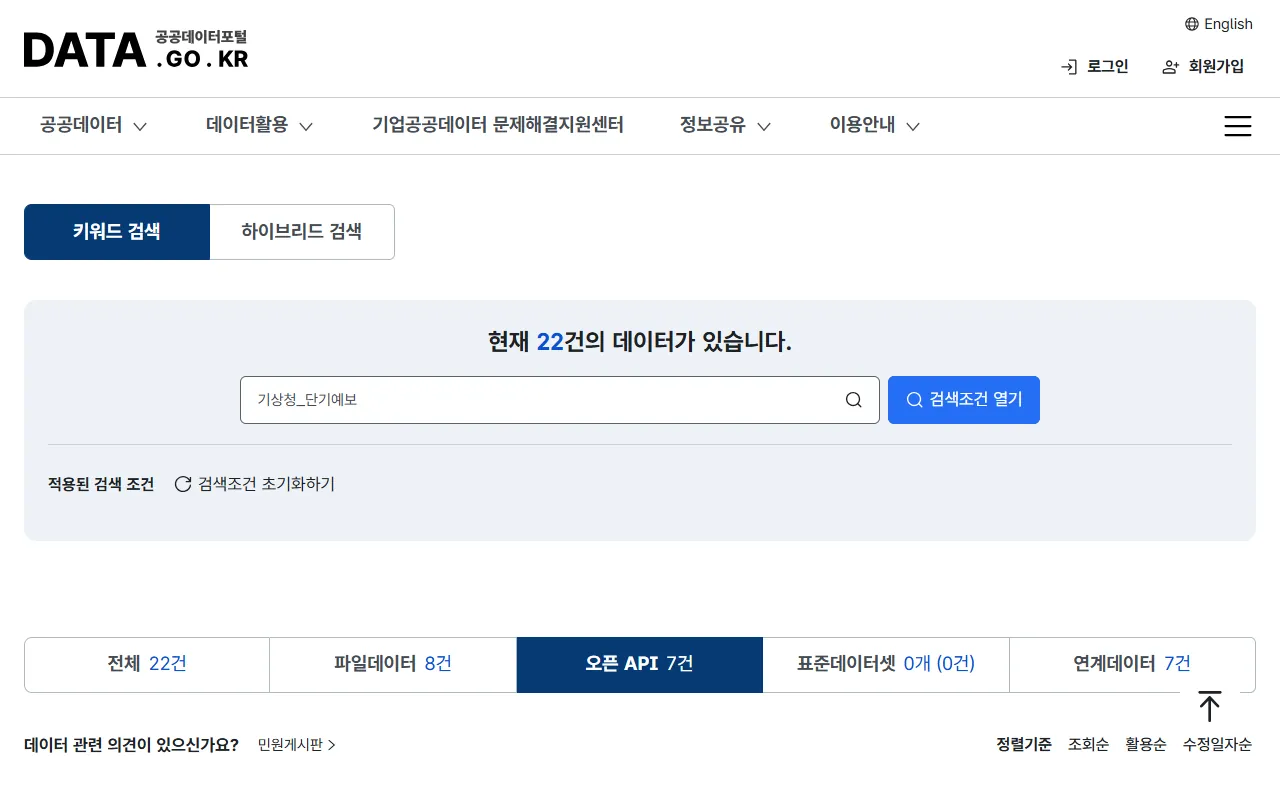
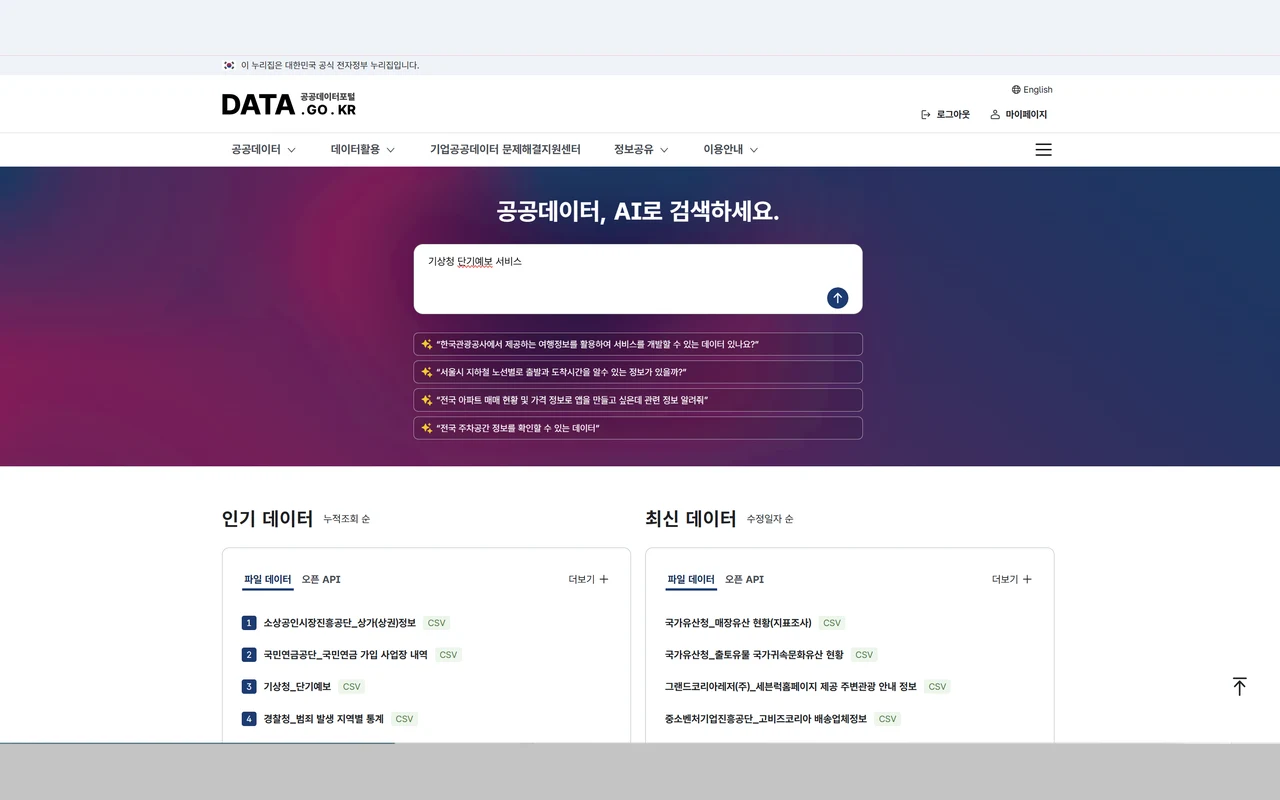
Add screen-by-screen walkthroughs to every Workshop 1 task
Each assignment's hint box now opens a walkthrough over real screens with
the spot to press highlighted: downloading and opening the starter, opening
the folder in the Codex app and running it, making the first change, the
Google login client ID, and the 공공데이터포털 weather key (now through the
logged-in AI search and the 마이페이지 key screen). Personal parts of the
screenshots (chat list, names, profile pictures, client IDs, the API key)
are covered, and Explorer/browser frames are drawn illustrations. A step
without an image can say why with `blank`.

diff --git a/portal/src/main.js b/portal/src/main.js
@@ -167,7 +167,7 @@ function openWalk(box) {
   layer.innerHTML = `<div class="walk-card" role="dialog" aria-modal="true" aria-labelledby="walk-title" tabindex="-1">
 <div class="walk-head"><span class="walk-title" id="walk-title"></span><span class="walk-count"></span><button type="button" class="walk-close" aria-label="닫기">✕</button></div>
 <div class="walk-progress" aria-hidden="true"><span></span></div>
-<div class="walk-shot"><div class="walk-zoom"><img alt=""><span class="walk-box" aria-hidden="true"></span></div><p class="walk-noimg"><span aria-hidden="true">🔒</span> 로그인한 뒤의 화면이에요</p></div>
+<div class="walk-shot"><div class="walk-zoom"><img alt=""><span class="walk-box" aria-hidden="true"></span></div><p class="walk-noimg"></p></div>
 <p class="walk-text"></p>
 <p class="walk-note"></p>
 <div class="walk-actions"><button type="button" class="walk-prev">이전</button><button type="button" class="walk-next">다음</button></div>
@@ -204,6 +204,8 @@ function openWalk(box) {
     layer.querySelector('.walk-progress span').style.width = `${((index + 1) / steps.length) * 100}%`;
     shot.classList.toggle('is-text', !step.image);
     if (step.image) img.src = step.image;
+    // 그림이 없는 단계는 왜 그림이 없는지 짧게 알려줍니다(기본: 로그인한 뒤의 화면).
+    else shot.querySelector('.walk-noimg').textContent = step.blank ?? '🔒 로그인한 뒤의 화면이에요';
     mark.hidden = !step.box;
     if (step.box) {
       const [x, y, w, h] = step.box;

diff --git a/portal/README.md b/portal/README.md
@@ -173,7 +173,8 @@ walkthrough: {
 ```
 
 - `box`는 캡처 그림 기준 [왼쪽, 위, 너비, 높이] (%)입니다. 캡처는 1280×800(16:10)으로 찍어 `public/images/walk/`에 둡니다.
-- 캡처에 이름·이메일·인증키가 보이면 안 됩니다. 로그인한 뒤의 화면은 가리고 찍거나 글 단계로 둡니다.
+- 캡처에 이름·이메일·인증키가 보이면 안 됩니다. 로그인한 뒤의 화면은 가리고 찍거나 글 단계로 둡니다. 앱 화면(예: Codex)은 왼쪽 대화 목록·프로젝트 이름·계정 아이콘을 덮은 뒤 넣습니다.
+- 그림 없는 단계는 그림 자리에 `blank` 문구를 보여줍니다(예: `blank: '📁 내 컴퓨터의 폴더 선택 창이 열려요'`). 없으면 '로그인한 뒤의 화면이에요'가 나옵니다.
 - 그림 파일이 없거나 상자가 그림 밖이면 빌드가 멈추고 알려줍니다.
 
 - 브라우저는 포털 주소의 `/api/*`로 요청하고, `functions/_middleware.js`가 Render로 그대로 전달합니다. 이때 `x-proxy-secret` 헤더를 붙여 포털을 거친 요청만 Render가 받게 합니다.
